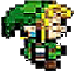
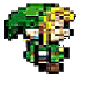
grafika

diff --git a/Game.py b/Game.py
@@ -95,7 +95,7 @@ class Game:
                 for x in range(len(level[y])):
                     if level[y][x] == '1':
                         Tile('earth.png', x, y)
-                    if level[y][x] == '2':
+                    elif level[y][x] == '2':
                         Tile('pov_earth.png', x, y)
                     elif level[y][x] == '#':
                         Tile('kirpich.png', x, y)
@@ -118,6 +118,18 @@ class Game:
 
             return new_player, x, y
 
+        # Функция для перемещения объекта в заданном направлении
+        def move(obj, direction):
+            x, y = obj.pos
+            if direction == 'left' and x > 0 and level[y][x - 1] != '#':
+                obj.move(x - 1, y)
+            if direction == 'right' and x < level_x and level[y][x + 1] != '#':
+                obj.move(x + 1, y)
+            if direction == 'up' and y > 0 and level[y - 1][x] != '#':
+                obj.move(x, y - 1)
+            if direction == 'down' and y < level_y and level[y + 1][x] != '#':
+                obj.move(x, y + 1)
+
         # Класс для отображения тайла
         class Tile(pygame.sprite.Sprite):
             def __init__(self, tile_type, pos_x, pos_y):
@@ -132,13 +144,13 @@ class Game:
                 super().__init__(player_group, all_sprites)
                 self.image = player_image
                 self.rect = self.image.get_rect().move(
-                    tile_width * pos_x + 15, tile_height * pos_y + 5)
+                    tile_width * pos_x, tile_height * pos_y + 2)
                 self.pos = pos_x, pos_y
 
             def move(self, x, y):
                 self.pos = x, y
                 self.rect = self.image.get_rect().move(
-                    tile_width * x + 15, tile_height * y + 5)
+                    tile_width * x, tile_height * y + 2)
 
 
         #загрузка изображения игрока
@@ -162,6 +174,15 @@ class Game:
             for event in pygame.event.get():
                 if event.type == pygame.QUIT:
                     terminate()
+                elif event.type == pygame.KEYDOWN:
+                    if event.key == pygame.K_LEFT:
+                        move(player, 'left')
+                    if event.key == pygame.K_RIGHT:
+                        move(player, 'right')
+                    if event.key == pygame.K_UP:
+                        move(player, 'up')
+                    if event.key == pygame.K_DOWN:
+                        move(player, 'down')
             screen.blit(background_image, (0, 0))
             tiles_group.draw(screen)#отрисовака тайлов
             player_group.draw(screen)  # отрисовка игрока
